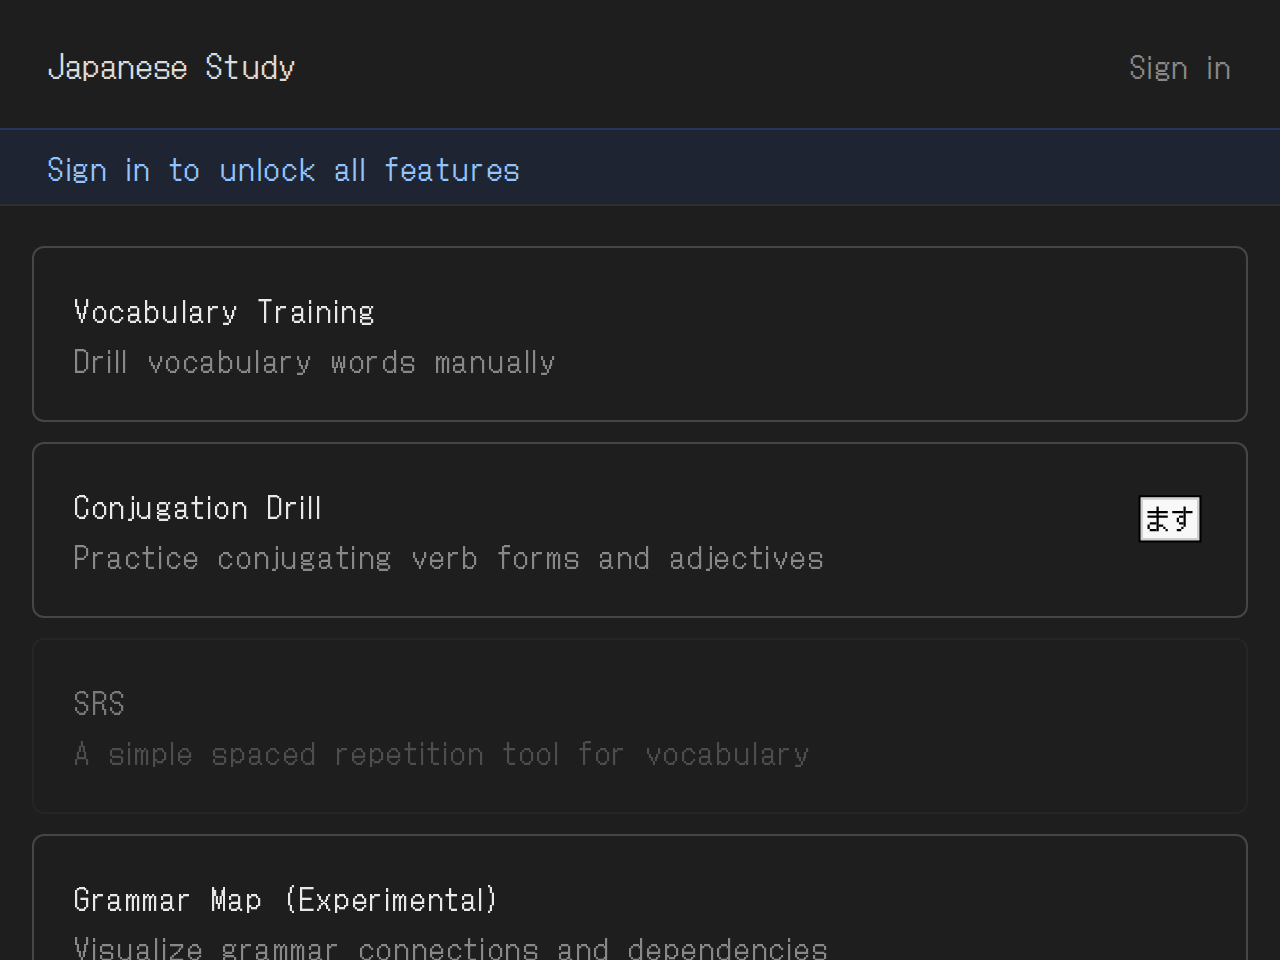
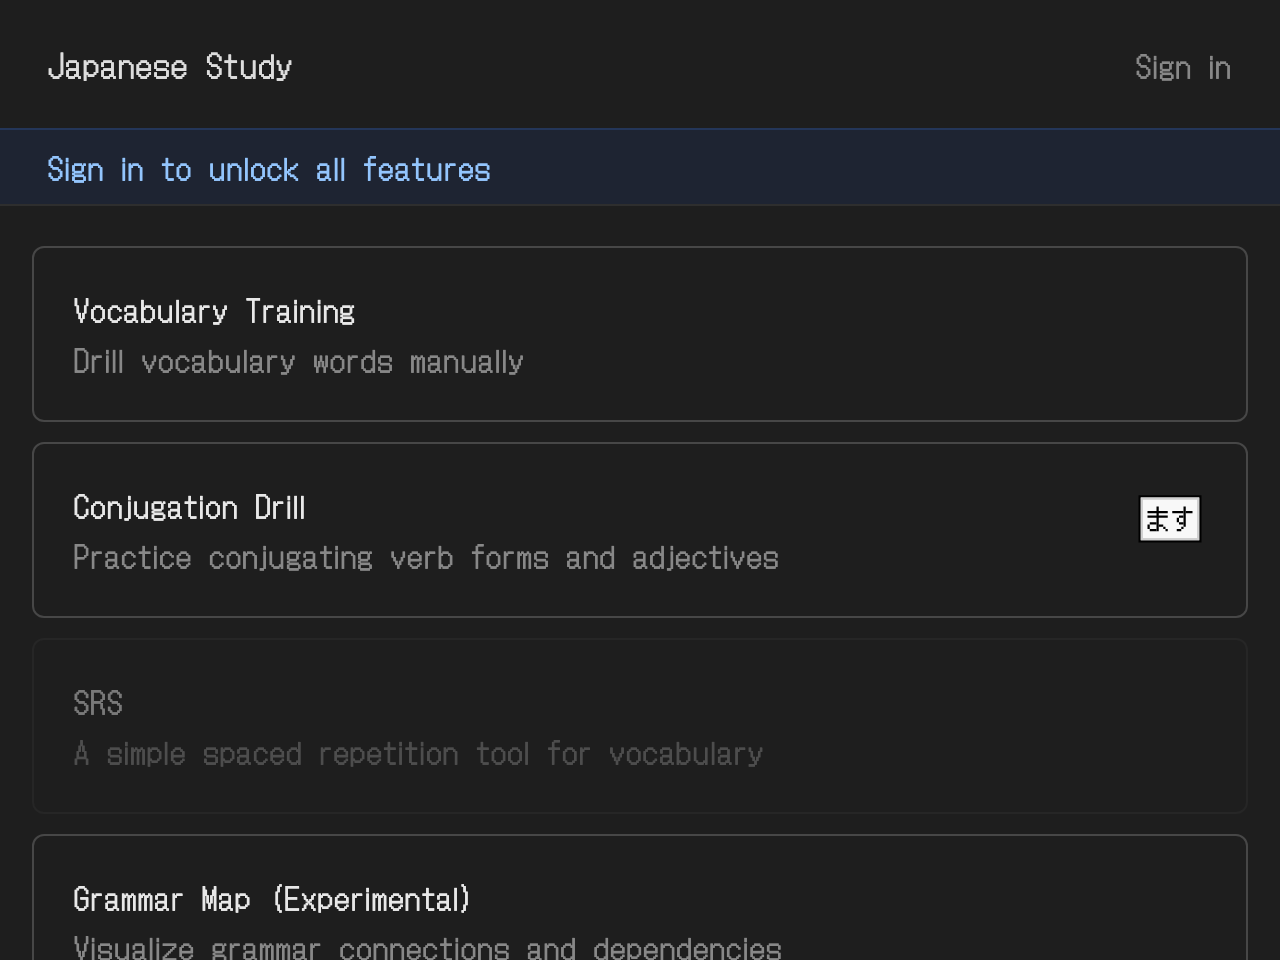
Refresh screenshots and update commit cache

diff --git a/src/content/work/grammar-conjugation-tool.md b/src/content/work/grammar-conjugation-tool.md
@@ -7,5 +7,5 @@ order: 3
 category: personal
 spotlight: true
 github: "scallsen/katsuyou-drill"
-external: "https://scallsen.ca/katsuyou-drill/"
+external: "https://scallsen.github.io/katsuyou-drill/"
 ---